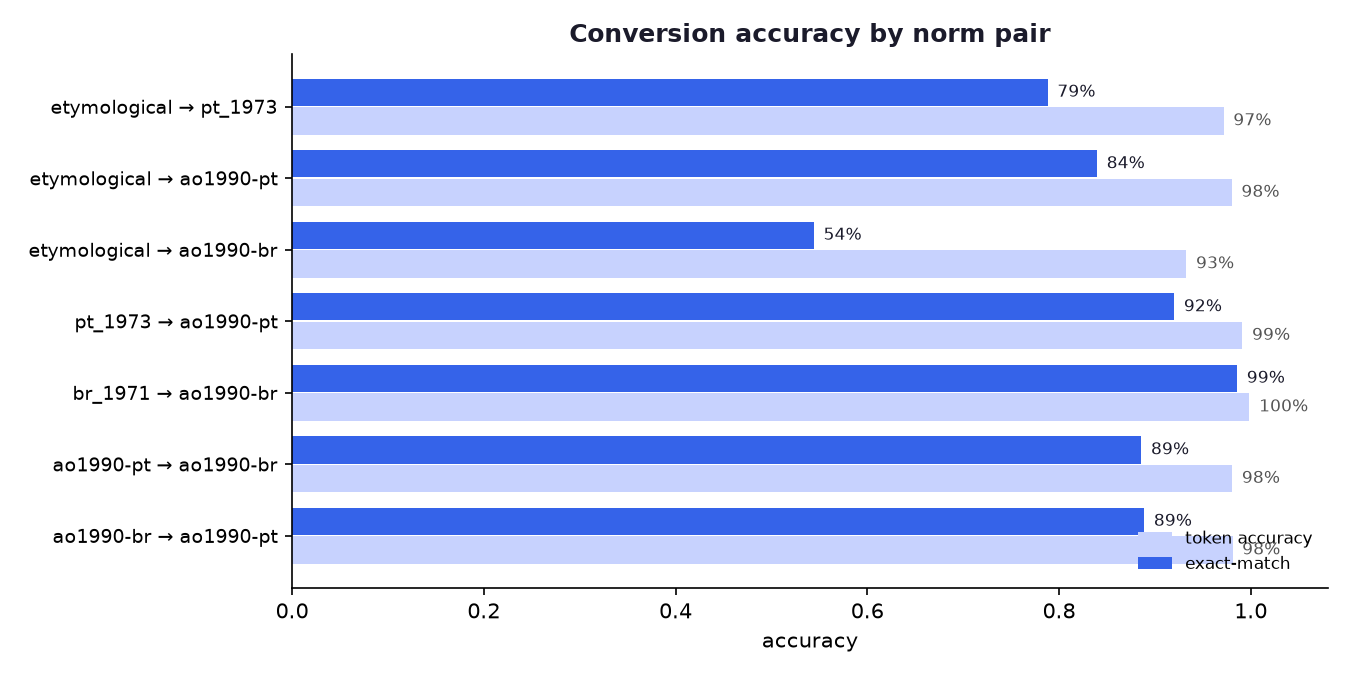
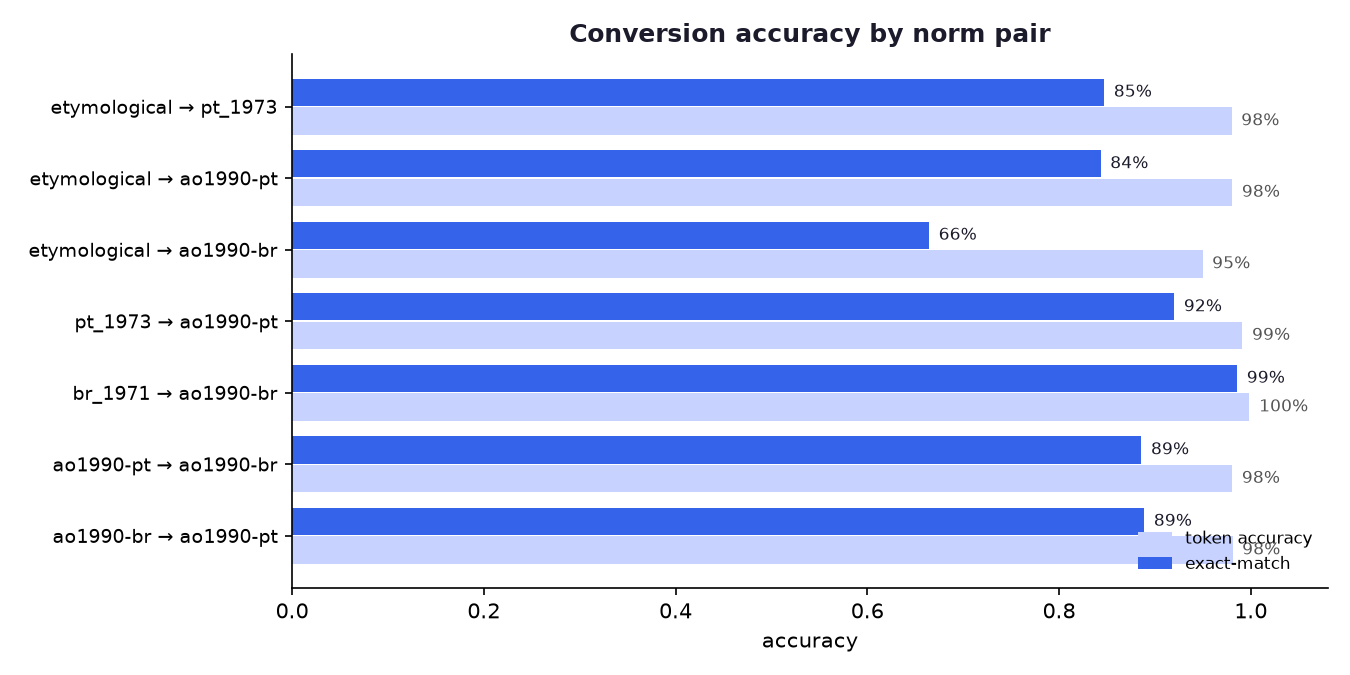
fix: close rule-conversion gaps surfaced by failure attribution
benchmark/diagnose.py attributes every failure (detection vs conversion,
rule-limitation vs gold-error). It found real rule bugs, now fixed:
- geminate rule over-reduced nn/mm (connosco->conosco); reduce all doubles but
  skip words already valid in the word list (connosco kept, communicou->comunicou)
- seasons were capitalised on pre-AO1990 edges; they are lowercase in every norm
- European trema was not dropped on the 1911->1945 edge (lingüiça->linguiça)
- PT->BR lexical divergences (connosco->conosco, húmido->úmido) were only applied on
  the AO1990 lateral edge, not the Brazilian historical line
- detector: add capitalised-month and -êem circumflex as pre-AO1990 markers

Conversion exact-match 83.6% -> 86.2%; detection compatible 93.4% -> 94.3%.

diff --git a/benchmark/diagnose.py b/benchmark/diagnose.py
@@ -1,0 +1,155 @@
+#!/usr/bin/env python3
+"""Attribute benchmark failures: detection vs conversion, rule-limitation vs gold-error.
+
+For every rule failure it classifies the cause from mechanical signals so we can say
+where the library loses points and whether the fault is the library's or the corpus's.
+"""
+from __future__ import annotations
+
+import json
+import os
+from collections import Counter, defaultdict
+
+from desacordo_ortografico import OrthographyConverter, detect
+from desacordo_ortografico.guard import NotPortuguese
+from desacordo_ortografico.lexicon import deaccent, get_lexicon
+
+HERE = os.path.dirname(os.path.abspath(__file__))
+NORMS = ["etymological", "pt_1973", "ao1990-pt", "br_1971", "ao1990-br"]
+PAIRS = [("etymological", "pt_1973"), ("etymological", "ao1990-pt"),
+         ("etymological", "ao1990-br"), ("pt_1973", "ao1990-pt"),
+         ("br_1971", "ao1990-br"), ("ao1990-pt", "ao1990-br"),
+         ("ao1990-br", "ao1990-pt")]
+_CP = ("cç", "ct", "pç", "pt")
+
+
+def load():
+    with open(os.path.join(HERE, "gold_corpus.jsonl"), encoding="utf-8") as f:
+        return [json.loads(line) for line in f if line.strip()]
+
+
+def decluster(w):
+    for p, r in (("cç", "ç"), ("ct", "t"), ("pç", "ç"), ("pt", "t")):
+        w = w.replace(p, r)
+    return w
+
+
+def classify_token(got, gold, lex):
+    """Return (category, verdict) for a got/gold token mismatch."""
+    g, h = got.lower(), gold.lower()
+    if g == h:
+        return "case/month", "rule-limitation"
+    if deaccent(g) == deaccent(h):
+        # same letters, differ only by accent
+        if g == deaccent(g):          # we produced the bare form, gold is accented
+            return "accent-not-restored", "rule-limitation"
+        return "accent-mismatch", "gold-suspect"
+    if decluster(g) == h or decluster(deaccent(g)) == deaccent(h):
+        return "silent-cp-not-dropped", "rule-limitation"
+    if decluster(h) == g:             # gold kept a cluster we dropped
+        return "silent-cp-overkept", "gold-suspect"
+    # different lemma entirely
+    if h in lex.wordset and g in lex.wordset and deaccent(g)[:3] != deaccent(h)[:3]:
+        return "different-word", "gold-suspect"
+    return "other", "unclassified"
+
+
+def conversion(corpus, conv, lex):
+    fails = 0
+    n = 0
+    cats = Counter()
+    verdicts = Counter()
+    samples = defaultdict(list)
+    for s in corpus:
+        for src, dst in PAIRS:
+            n += 1
+            got = conv.convert(s["cells"][src], src, dst).text
+            gold = s["cells"][dst]
+            if got == gold:
+                continue
+            fails += 1
+            gt, gd = got.split(), gold.split()
+            if len(gt) != len(gd):
+                cats["tokenisation(hyphen/spacing)"] += 1
+                verdicts["rule-or-gold(structural)"] += 1
+                if len(samples["tokenisation(hyphen/spacing)"]) < 4:
+                    samples["tokenisation(hyphen/spacing)"].append((f"{src}->{dst}", got, gold))
+                continue
+            for a, b in zip(gt, gd):
+                if a != b:
+                    cat, verdict = classify_token(a, b, lex)
+                    cats[cat] += 1
+                    verdicts[verdict] += 1
+                    if len(samples[cat]) < 4:
+                        samples[cat].append((f"{src}->{dst}", a, b))
+    return n, fails, cats, verdicts, samples
+
+
+def detection(corpus):
+    n = ok = 0
+    cats = Counter()
+    samples = defaultdict(list)
+    for s in corpus:
+        shared = defaultdict(set)
+        for c in NORMS:
+            shared[s["cells"][c]].add(c)
+        for c in NORMS:
+            text = s["cells"][c]
+            n += 1
+            r = detect(text, method="rules")
+            if isinstance(r, NotPortuguese):
+                cats["flagged-as-sister(false)"] += 1
+                continue
+            eid = r.id
+            pred = ("pt_1973" if eid.startswith("pt_1973")
+                    else "br_1971" if eid.startswith("br_1971") else eid)
+            comp = shared[text]
+            if pred in comp or (pred == "ao1990" and ({"ao1990-pt", "ao1990-br"} & comp)):
+                ok += 1
+                continue
+            # categorise the miss
+            if pred == "ao1990" and comp <= {"etymological", "pt_1973", "br_1971"}:
+                cat = "under-detected-old(no marker in string)"
+            elif pred in {"pt_1973", "br_1971"} and "ao1990-pt" in comp or "ao1990-br" in comp:
+                cat = "over-detected-old(looks pre-AO90)"
+            else:
+                cat = "wrong-variant-or-era"
+            cats[cat] += 1
+            if len(samples[cat]) < 5:
+                samples[cat].append((sorted(comp), pred, text))
+    return n, ok, cats, samples
+
+
+def main():
+    corpus = load()
+    conv = OrthographyConverter()
+    lex = get_lexicon()
+
+    print("=" * 70)
+    print("CONVERSION (100% rules + lexicon; no model)")
+    n, fails, cats, verdicts, samples = conversion(corpus, conv, lex)
+    print(f"  {fails}/{n} conversions fail ({fails/n:.1%}); failing tokens by cause:\n")
+    for cat, c in cats.most_common():
+        print(f"    {cat:34} {c}")
+    print("\n  verdict tally (per differing token):")
+    for v, c in verdicts.most_common():
+        print(f"    {v:34} {c}")
+    print("\n  samples:")
+    for cat in cats:
+        for pair, a, b in samples[cat][:2]:
+            print(f"    [{cat}] {pair}: got {a!r} / gold {b!r}")
+
+    print("\n" + "=" * 70)
+    print("DETECTION (rules method)")
+    n, ok, cats, samples = detection(corpus)
+    print(f"  {n-ok}/{n} renderings mis-detected ({(n-ok)/n:.1%}); by cause:\n")
+    for cat, c in cats.most_common():
+        print(f"    {cat:38} {c}")
+    print("\n  samples:")
+    for cat in cats:
+        for comp, pred, text in samples[cat][:3]:
+            print(f"    [{cat}] gold∈{comp} pred={pred}: {text}")
+
+
+if __name__ == "__main__":
+    main()

diff --git a/desacordo_ortografico/rules.py b/desacordo_ortografico/rules.py
@@ -61,14 +61,18 @@ def reform_1911_digraphs(word: str) -> str:
 _GEMINATE_RE = re.compile(r"([bcdfgjlmnpqtvz])\1")
 
 
-def reform_1911_geminates(word: str) -> str:
+def reform_1911_geminates(word: str, wordset=None) -> str:
     """Reduce a doubled consonant to a single one, the way 1911 did.
 
-    Etymological geminates (anno, commando, collectiva, sufficiente) collapse, but
-    the etymological ``rr``/``ss`` survive in modern spelling (carro, passo) and are
-    deliberately excluded from the character class. Applied as a rule fallback so
-    inflections the 1911 lexicon does not list are handled too. One-way.
+    Etymological geminates (anno, commando, collectiva, sufficiente) collapse, but the
+    etymological ``rr``/``ss`` survive in modern spelling (carro, passo) and are excluded
+    from the character class. ``mm``/``nn`` also survive in a few modern PT words
+    (connosco, comummente), so when a word list is supplied a word already in it is left
+    untouched. Applied as a rule fallback so inflections the lexicon omits are handled.
+    One-way.
     """
+    if wordset is not None and word in wordset:
+        return word
     return _GEMINATE_RE.sub(r"\1", word)
 
 
@@ -171,20 +175,24 @@ def ao1990_drop_trema(word: str) -> str:
 _MONTHS = {
     "janeiro", "fevereiro", "março", "abril", "maio", "junho", "julho",
     "agosto", "setembro", "outubro", "novembro", "dezembro",
-    "primavera", "verão", "outono", "inverno",
 }
+# Seasons were lowercase in every norm (only AO1990 also lowercased the months); they
+# are tracked only so a season that OPENS a sentence is still capitalised.
+_SEASONS = {"primavera", "verão", "outono", "inverno"}
 
-
-_MONTH_RE = re.compile(r"\b(%s)\b" % "|".join(sorted(_MONTHS, key=len, reverse=True)),
-                       re.IGNORECASE)
+_MONTH_RE = re.compile(
+    r"\b(%s)\b" % "|".join(sorted(_MONTHS | _SEASONS, key=len, reverse=True)),
+    re.IGNORECASE,
+)
 
 
 def recase_months(text: str, lowercase: bool) -> str:
     """Set month/season casing at the text level (so sentence position is known).
 
     AO1990 lowercases months mid-sentence (``lowercase=True``); the older norms
-    capitalise them. A month that opens a sentence stays capitalised in every norm.
-    This cannot be done per-word, because case is restored from the source token.
+    capitalise them. Seasons stay lowercase in every norm. A month or season opening a
+    sentence stays capitalised. This cannot be done per-word, because case is restored
+    from the source token.
     """
 
     def repl(m):
@@ -192,9 +200,10 @@ def recase_months(text: str, lowercase: bool) -> str:
         low = word.lower()
         cap = low[:1].upper() + low[1:]
         prefix = text[: m.start()].rstrip()
-        sentence_initial = prefix == "" or prefix[-1] in ".!?:—"
-        if sentence_initial:
-            return cap
+        if prefix == "" or prefix[-1] in ".!?:—":
+            return cap  # sentence-initial: capitalised in every norm
+        if low in _SEASONS:
+            return low  # seasons are always lowercase mid-sentence
         return low if lowercase else cap
 
     return _MONTH_RE.sub(repl, text)

diff --git a/desacordo_ortografico/convert.py b/desacordo_ortografico/convert.py
@@ -156,7 +156,7 @@ class OrthographyConverter:
         def reform_1911_fwd(w: str, _v: Optional[str]) -> str:
             if w in lex.reform1911_old2new:
                 return lex.reform1911_old2new[w]
-            w = rules.reform_1911_geminates(rules.reform_1911_digraphs(w))
+            w = rules.reform_1911_geminates(rules.reform_1911_digraphs(w), lex.wordset)
             # 1911 also introduced systematic graphic accents the rules can't derive;
             # restore them from the word list where unambiguous (fosforo -> fósforo).
             return rules.restore_accent(w, lex.accent_restore)
@@ -164,16 +164,22 @@ class OrthographyConverter:
         def reform_1911_bwd(w: str, _v: Optional[str]) -> str:
             return lex.reform1911_new2old.get(w, w)
 
-        # -- 1911 <-> 1945 (PT): orthographically near-identical --------------
+        # -- 1911 <-> 1945 (PT): the 1945 Convenção dropped the trema for Portugal
+        #    (ü -> u); otherwise the PT spelling is unchanged across these eras.
         def identity(w: str, _v: Optional[str]) -> str:
             return w
+
+        def pt_1945_fwd(w: str, _v: Optional[str]) -> str:
+            return rules.ao1990_drop_trema(w)
 
         # -- 1911 <-> 1943 (BR) ----------------------------------------------
         def br_1943_fwd(w: str, _v: Optional[str]) -> str:
             w = lex.base_iv_drop.get(w, w)
+            w = lex.divergence_pt2br.get(w, w)   # connosco->conosco, húmido->úmido
             return rules.nasal_vowel_to_br(w)
 
         def br_1943_bwd(w: str, _v: Optional[str]) -> str:
+            w = lex.divergence_br2pt.get(w, w)
             w = lex.base_iv_drop_reverse.get(w, w)
             return rules.nasal_vowel_to_pt(w)
 
@@ -249,7 +255,8 @@ class OrthographyConverter:
                 reversible_backward=False,
                 note="1911 digraph simplification (ph/th/y) cannot be reversed by rule",
             ),
-            "pt_1911_to_1945": _Edge(identity, identity),
+            "pt_1911_to_1945": _Edge(pt_1945_fwd, identity, reversible_backward=False,
+                                     note="the trema cannot be reintroduced by rule"),
             "br_1911_to_1943": _Edge(
                 br_1943_fwd, br_1943_bwd,
                 reversible_backward=False,

diff --git a/desacordo_ortografico/detect.py b/desacordo_ortografico/detect.py
@@ -20,6 +20,7 @@ from .eras import Era, Variant
 from .guard import NotPortuguese, detect_sister
 from .lexicon import Lexicon, get_lexicon
 from .ml import get_detector_model
+from .rules import _MONTHS
 from .rules import words as _words
 
 _VOWELS = "aeiouáàâãéêíóôõúü"
@@ -119,7 +120,7 @@ def _detect_rules(text: str, lex: Lexicon) -> Orthography:
     br_lean = 0
     markers: List[str] = []
 
-    for raw in _words(text):
+    for i, raw in enumerate(_words(text)):
         w = raw.lower()
 
         # --- pre-1911 etymological evidence -----------------------------
@@ -129,6 +130,16 @@ def _detect_rules(text: str, lex: Lexicon) -> Orthography:
         elif _RE_ETYM.search(w):
             etym += 1
             markers.append(f"etym-pattern:{w}")
+
+        # --- pre-AO1990 signals the lexicon misses ----------------------
+        if "êem" in w:  # lêem/crêem/vêem: -êem circumflex, dropped only by AO1990
+            old_pt += 1
+            markers.append(f"verbal-eem:{w}")
+        if i > 0 and raw[:1].isupper() and w in _MONTHS:
+            # a month capitalised mid-sentence is pre-AO1990 European (BR lowercased
+            # months in 1943; AO1990 lowercased them everywhere)
+            old_pt += 1
+            markers.append(f"capital-month:{w}")
 
         # --- pre-AO1990 PT (silent consonants / dropped differentials) --
         if w in lex.ao_pt_old2new or w in lex.base_iv_drop or w in lex.differential_dropped:

diff --git a/benchmark/results.md b/benchmark/results.md
@@ -6,47 +6,47 @@ Corpus: `gold_corpus.jsonl` — 1341 parallel sentences (6705 renderings across 
 
 | pair | exact-match | token-acc |
 |------|-------------|-----------|
-| etymological->pt_1973 | 1057/1341 = 78.8% | 97.2% |
-| etymological->ao1990-pt | 1126/1341 = 84.0% | 98.0% |
-| etymological->ao1990-br | 730/1341 = 54.4% | 93.3% |
+| etymological->pt_1973 | 1136/1341 = 84.7% | 98.0% |
+| etymological->ao1990-pt | 1131/1341 = 84.3% | 98.1% |
+| etymological->ao1990-br | 891/1341 = 66.4% | 95.0% |
 | pt_1973->ao1990-pt | 1234/1341 = 92.0% | 99.1% |
 | br_1971->ao1990-br | 1322/1341 = 98.6% | 99.9% |
 | ao1990-pt->ao1990-br | 1188/1341 = 88.6% | 98.1% |
 | ao1990-br->ao1990-pt | 1192/1341 = 88.9% | 98.1% |
 
-**Overall: 83.6% exact-match, 97.7% token-accuracy over 9387 conversions.**
+**Overall: 86.2% exact-match, 98.0% token-accuracy over 9387 conversions.**
 
 ### Conversion accuracy by feature family
 
 | feature | exact-match | n |
 |---------|-------------|---|
 | hyphen_rs | 62.4% | 399 |
-| silent_ct | 77.3% | 2709 |
-| dual | 78.2% | 1358 |
-| silent_pt | 80.5% | 364 |
+| silent_ct | 78.7% | 2709 |
 | ch_k | 81.8% | 581 |
-| trema | 82.1% | 840 |
-| divergence | 84.6% | 2023 |
-| nasal | 84.8% | 3661 |
-| months | 85.7% | 350 |
-| digraph | 86.2% | 2037 |
-| differential | 87.7% | 616 |
-| mn_ps | 89.9% | 336 |
-| diphthong | 89.9% | 1001 |
-| geminate | 90.0% | 1792 |
+| silent_pt | 82.1% | 364 |
+| digraph | 86.6% | 2037 |
+| nasal | 86.8% | 3661 |
+| divergence | 88.0% | 2023 |
+| months | 89.1% | 350 |
+| mn_ps | 90.2% | 336 |
+| dual | 90.5% | 1358 |
+| differential | 90.6% | 616 |
+| geminate | 90.9% | 1792 |
+| diphthong | 91.3% | 1001 |
+| trema | 91.5% | 840 |
 
 ## Detection
 
-**Compatible accuracy: 93.4%** over 6705 renderings.
+**Compatible accuracy: 94.3%** over 6705 renderings.
 
 Confusion (nominal norm -> predicted, raw counts; off-diagonal often reflects norms that are spelling-identical for a given sentence):
 
 | nominal \ predicted | ao1990 | ao1990-br | ao1990-pt | br_1971 | etymological | not-portuguese | pt_1973 |
 |---|---|---|---|---|---|---|---|
-| etymological | 170 | 0 | 210 | 102 | 475 | 1 | 383 |
-| pt_1973 | 509 | 0 | 330 | 1 | 2 | 1 | 498 |
+| etymological | 152 | 0 | 204 | 102 | 475 | 1 | 407 |
+| pt_1973 | 480 | 0 | 323 | 1 | 2 | 1 | 534 |
 | ao1990-pt | 833 | 1 | 503 | 2 | 0 | 1 | 1 |
-| br_1971 | 555 | 418 | 6 | 228 | 0 | 1 | 133 |
+| br_1971 | 554 | 418 | 6 | 228 | 0 | 1 | 134 |
 | ao1990-br | 823 | 486 | 4 | 2 | 0 | 1 | 25 |
 
 ## Sister-language guard
@@ -55,7 +55,7 @@ Confusion (nominal norm -> predicted, raw counts; off-diagonal often reflects no
 
 ## Summary
 
-- conversion exact-match: **83.6%**
-- conversion token-accuracy: **97.7%**
-- detection compatible accuracy: **93.4%**
+- conversion exact-match: **86.2%**
+- conversion token-accuracy: **98.0%**
+- detection compatible accuracy: **94.3%**
 - guard accuracy: **93.3%**
